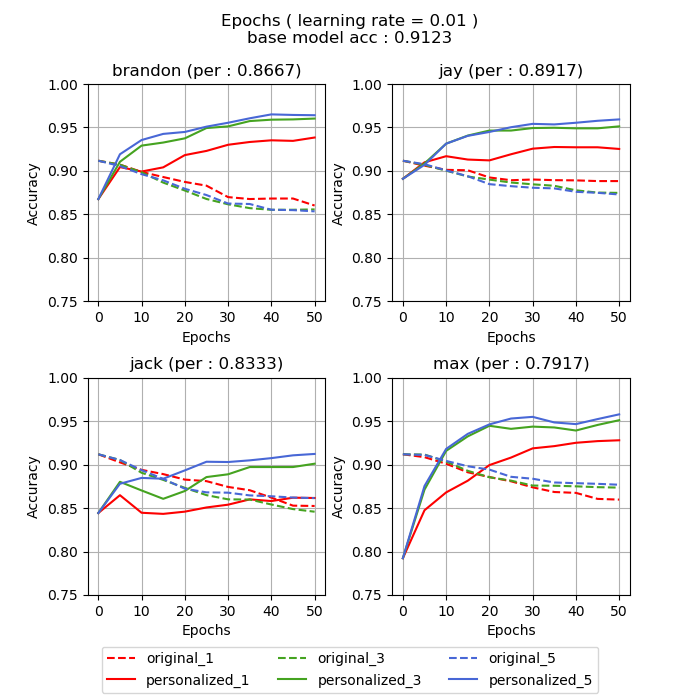
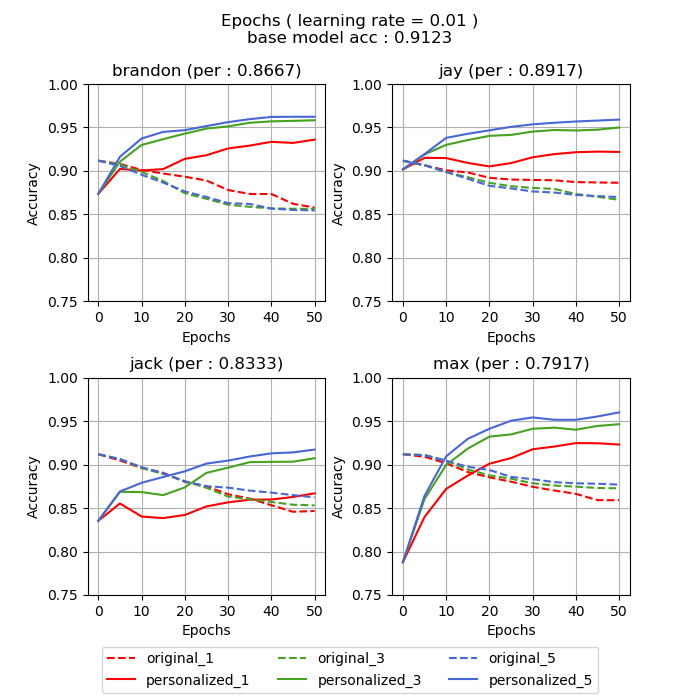
updating default values

diff --git a/utils/train.py b/utils/train.py
@@ -272,7 +272,7 @@ def evaluate_epochs(base_config, config, original_acc, personalized_acc):
     print(TEXT_COLOR['WARNING'] + '\t' + str(epochs[-1]) +' : '
         + str(acc_map['original'][-1]) + " - " + str(acc_map['personalized'][-1]) + TEXT_COLOR['ENDC'])
 
-    for i in range(5, 55, 5):
+    for i in range(5, 61, 5):
         config["n_epochs"] = i
         epochs.append(config["n_epochs"])
         new_model_file_name = config['model_dir'] + 'epochs_' + str(config["size_per_word"]) + '_' + str(config["n_epochs"]) + '_' + config['model_file_suffix']
@@ -353,7 +353,7 @@ def main():
 
     default_lr = [0.01]
     default_size_per_word = 1
-    default_n_epochs = 20
+    default_n_epochs = 25
 
     total_data_size = 5
 
